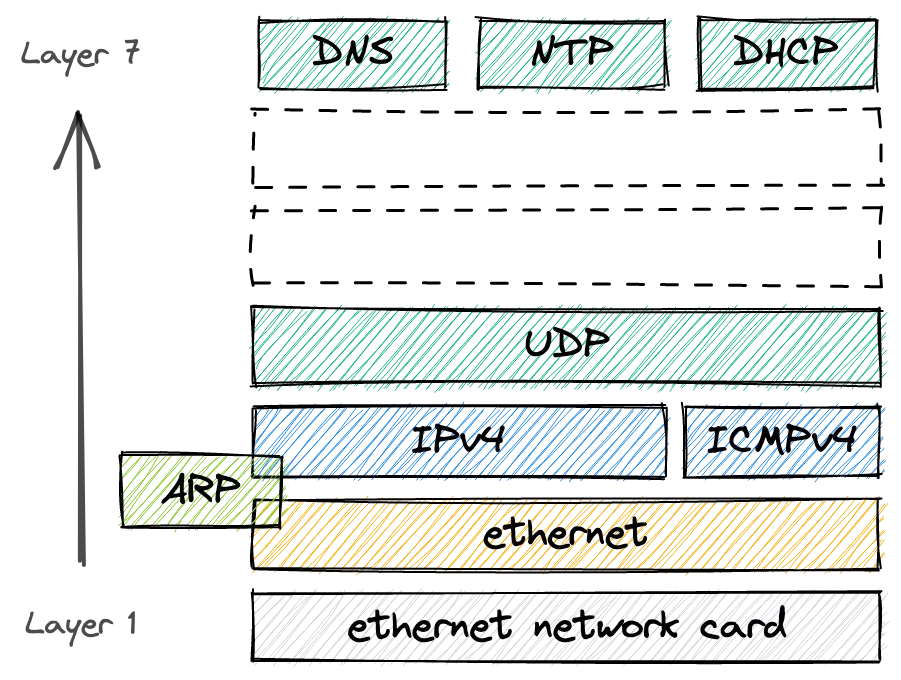
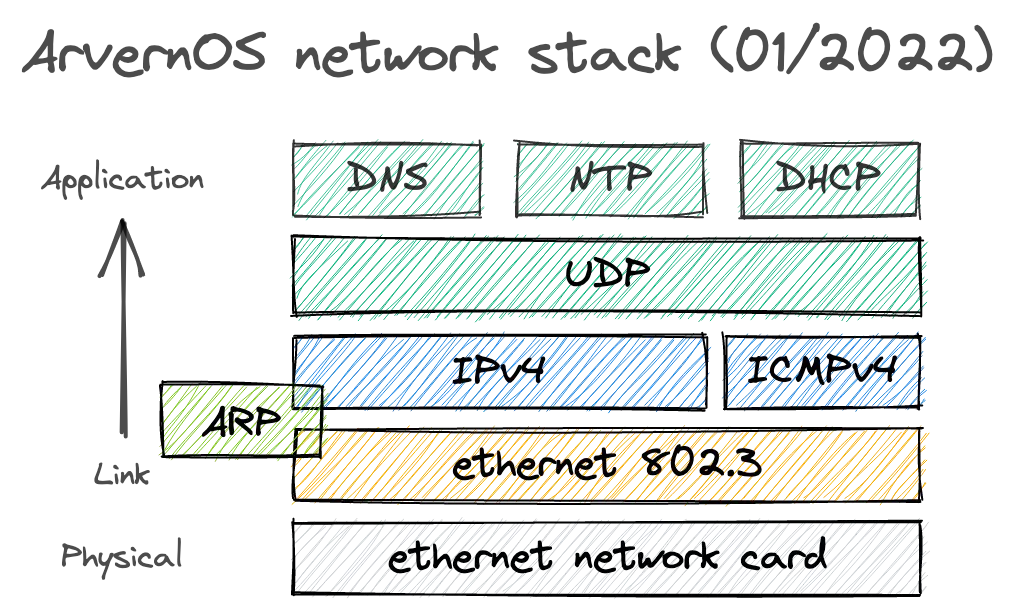
update some network stack images

diff --git a/_posts/2022-02-17-on-writing-a-network-stack-part-1.md b/_posts/2022-02-17-on-writing-a-network-stack-part-1.md
@@ -2,14 +2,14 @@
 layout: post
 title: "On writing a network stack (1/2)"
 location: "Freiburg, Germany"
-image: /images/posts/2022/02/network-stack-part-1.webp?v=2
+image: /images/posts/2022/02/network-stack-social.webp
 tweet_id: 1494288808669503492
 ---
 
 _I am writing a minimum viable network stack from scratch for [ArvernOS][] (a
-UNIX-like kernel experiment). This two-part story describes some protocols of
-the [OSI][] model and [TCP/IP][tcp-ip] stack as well as some implementation
-details in the context of ArvernOS._
+UNIX-like toy kernel). This two-part story describes some protocols of the
+[TCP/IP][tcp-ip] stack as well as some implementation details in the context of
+ArvernOS._
 
 ---
 
@@ -87,8 +87,8 @@ exchange data with other machines **within the same LAN** (a "home" or "office"
 network for instance). Machines are connected to each other with **physical**
 cables.
 
-At this level (or layer in OSI model parlance), we send and receive frames using
-[MAC addresses][mac address]. A MAC address looks like this:
+At this level (or layer in [OSI model][osi] parlance), we send and receive
+frames using [MAC addresses][mac address]. A MAC address looks like this:
 `52:55:0a:00:02:03`. It's possible to target a specific machine but only if we
 know its MAC address. Otherwise we have to use the broadcast MAC address, which
 target all machines configured to accept broadcasted frames (network cards can
